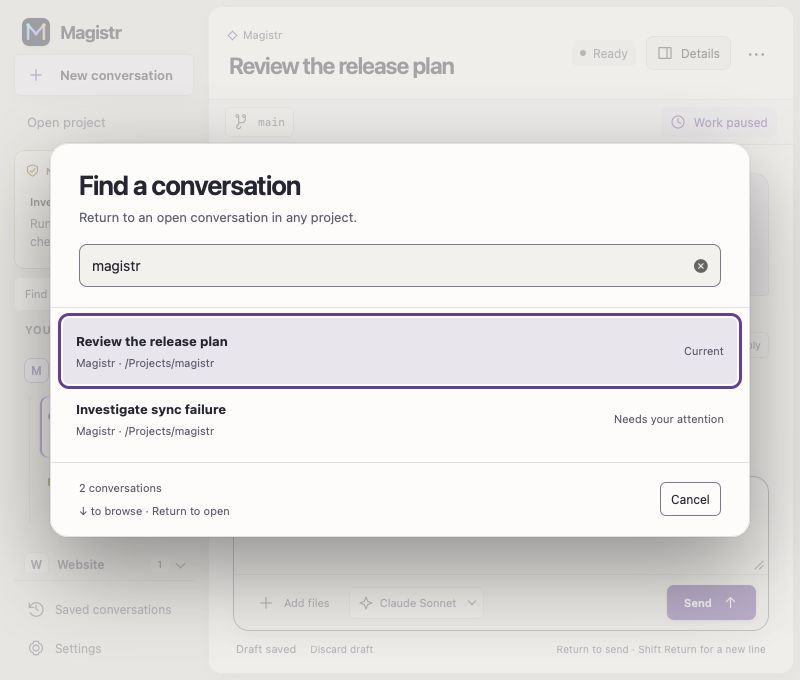
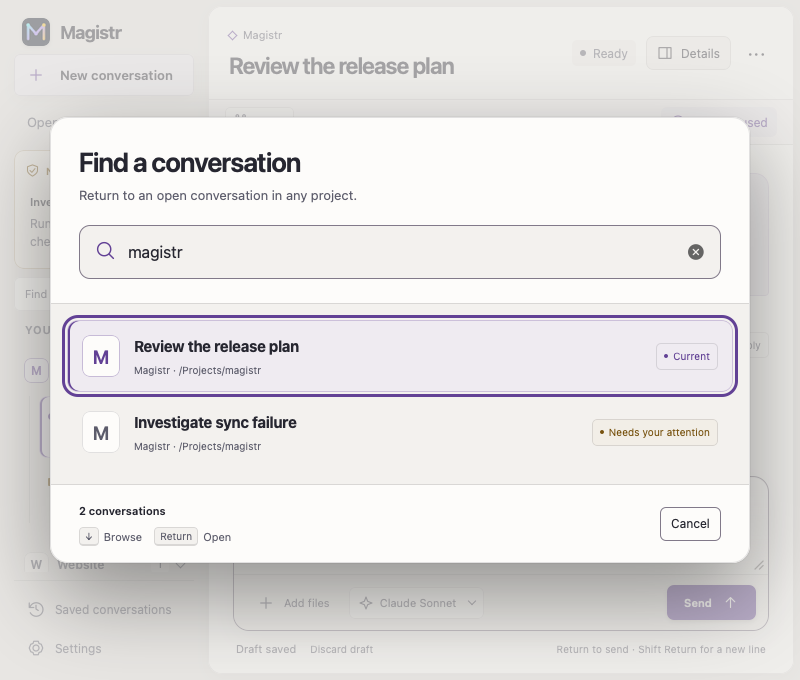
feat(desktop): redesign conversation search and result cards

Changed region(s): [[0.0625, 0.1544, 0.9375, 0.6794], [0.0625, 0.7103, 0.9375, 0.8338]]

diff --git a/crates/magistr-desktop/ui/style.css b/crates/magistr-desktop/ui/style.css
@@ -6,14 +6,14 @@
 kbd{font:inherit;font-size:11px;line-height:1.4;color:var(--muted);white-space:nowrap}#find-conversation kbd{font-size:10px}
 #switch-picker{width:700px;padding:0;max-height:calc(100dvh - 56px)}
 #switch-picker[open]{display:flex;flex-direction:column}
-.switch-heading{padding:24px 28px 16px}.switch-heading h2{margin:0 0 6px}.switch-heading p{margin:0;font-size:13px}
-.switch-search{padding:0 28px 20px}.switch-search input{width:100%;padding:10px 12px}
-#switch-results{overflow:auto;min-height:0;max-height:340px;padding:8px 12px;border-block:1px solid var(--separator)}
-#switch-results button{display:flex;align-items:center;justify-content:space-between;gap:16px;width:100%;border-color:transparent;background:transparent;padding:12px;margin:2px 0;font-size:13px}
-#switch-results button[aria-current=true],#switch-results button:hover{background:var(--raised)}
-#switch-results button>span:first-child{min-width:0}#switch-results strong,#switch-results small{display:block;overflow-wrap:anywhere}#switch-results small{color:var(--muted);font-size:11px;margin-top:4px}
-.switch-state{font-size:11px;color:var(--muted);flex-shrink:0}.switch-footer{display:flex;align-items:center;justify-content:space-between;gap:16px;padding:16px 28px;flex-shrink:0}
-.switch-footer p{font-size:11px;margin:0}#switch-hint{margin-top:4px}#switch-empty{padding:20px 28px;margin:0;font-size:13px}#switch-error{margin:0 28px 12px;padding:10px;font-size:13px;max-height:100px;overflow:auto}
+.switch-heading{padding:28px 28px 20px}.switch-heading h2{margin:0 0 6px}.switch-heading p{margin:0;font-size:13px}
+.switch-search{padding:0 28px 24px;position:relative}.switch-search>[data-icon]{position:absolute;left:44px;top:15px;width:21px;height:21px;color:var(--accent)}.switch-search input{width:100%;padding:14px 16px 14px 48px;min-height:52px;font-size:16px;border-radius:11px;background:var(--panel)}
+#switch-results{overflow:auto;min-height:0;max-height:360px;padding:12px 16px;border-block:1px solid var(--separator);background:var(--panel)}
+#switch-results button{display:grid;grid-template-columns:38px minmax(0,1fr) auto;align-items:center;gap:14px;width:100%;border-color:transparent;background:transparent;padding:14px;margin:4px 0;font-size:13px;border-radius:11px}
+#switch-results button:hover{background:var(--raised)}#switch-results button[aria-current=true]{background:var(--tint);border-color:color-mix(in srgb,var(--accent) 25%,transparent);box-shadow:inset 2px 0 var(--accent)}
+#switch-results .switch-body{min-width:0}#switch-results strong,#switch-results small{display:block;overflow-wrap:anywhere}#switch-results strong{font-size:15px;letter-spacing:-.02em;line-height:1.4}#switch-results small{color:var(--muted);font-size:10px;margin-top:6px;line-height:1.5}.switch-emblem{width:38px;height:42px;display:grid;place-items:center;background:var(--base);border:1px solid var(--separator);border-radius:8px;font-size:19px;font-weight:650;color:var(--muted)}[aria-current=true]>.switch-emblem{color:var(--accent);border-color:color-mix(in srgb,var(--accent) 35%,transparent)}
+.switch-state{display:flex;align-items:center;gap:5px;font-size:10px;color:var(--muted);padding:5px 7px;border:1px solid var(--separator);border-radius:5px;white-space:nowrap}.switch-state::before{content:"";width:4px;height:4px;border-radius:50%;background:currentColor}[aria-current=true]>.switch-state{color:var(--accent)}[data-attention=true]>.switch-state{color:var(--warning);background:color-mix(in srgb,var(--warning) 8%,var(--base))}.switch-footer{display:flex;align-items:center;justify-content:space-between;gap:16px;padding:16px 28px;flex-shrink:0}
+.switch-footer p{font-size:11px;margin:0}#switch-count{font-weight:600;color:var(--text)}#switch-hint{display:flex;gap:12px;margin-top:8px}#switch-hint span{display:flex;align-items:center;gap:5px}#switch-hint kbd{font:10px var(--font-ui);border:1px solid var(--separator);border-bottom-width:2px;border-radius:4px;padding:2px 5px;background:var(--panel)}#switch-empty{padding:36px 28px;margin:0;font-size:14px;text-align:center}@media(max-width:600px){#switch-results button{grid-template-columns:32px minmax(0,1fr);gap:10px}.switch-emblem{width:32px;height:36px}.switch-state{grid-column:2;justify-self:start}.switch-search,.switch-heading{padding-inline:20px}.switch-search>[data-icon]{left:36px}}#switch-error{margin:0 28px 12px;padding:10px;font-size:13px;max-height:100px;overflow:auto}
 #settings{max-height:calc(100dvh - 56px)}#settings[open]{display:flex;flex-direction:column}.settings-heading{flex-shrink:0}.settings-content{min-height:0;overflow:auto;padding:3px}
 .settings-shortcuts{border-top:1px solid var(--separator);padding-top:16px;margin-top:20px}.settings-shortcuts h3{font-size:13px;margin:0 0 12px}
 .settings-shortcuts dl{margin:0}.settings-shortcuts dl>div{display:flex;justify-content:space-between;gap:20px;padding:5px 0;font-size:12px}.settings-shortcuts dd{margin:0}

diff --git a/crates/magistr-desktop/ui/index.html b/crates/magistr-desktop/ui/index.html
@@ -91,10 +91,10 @@
 </div>
 <dialog id="switch-picker" aria-labelledby="switch-title">
   <header class="switch-heading"><h2 id="switch-title">Find a conversation</h2><p>Return to an open conversation in any project.</p></header>
-  <div class="switch-search"><label for="switch-search" class="sr-only">Find an open conversation</label><input id="switch-search" type="search" placeholder="Search conversations or projects…" aria-controls="switch-results" aria-describedby="switch-hint"></div>
+  <div class="switch-search"><span data-icon="search" aria-hidden="true"></span><label for="switch-search" class="sr-only">Find an open conversation</label><input id="switch-search" type="search" placeholder="Search conversations or projects…" aria-controls="switch-results" aria-describedby="switch-hint"></div>
   <p id="switch-error" class="error" role="alert" tabindex="-1" hidden></p>
   <nav id="switch-results" aria-label="Matching conversations"></nav><p id="switch-empty" hidden></p>
-  <footer class="switch-footer"><div><p id="switch-count" role="status"></p><p id="switch-hint">↓ to browse · Return to open</p></div><button id="switch-close">Cancel</button></footer>
+  <footer class="switch-footer"><div><p id="switch-count" role="status"></p><p id="switch-hint"><span><kbd>↓</kbd> Browse</span><span><kbd>Return</kbd> Open</span></p></div><button id="switch-close">Cancel</button></footer>
 </dialog>
 <dialog id="rename-picker" aria-labelledby="rename-title">
   <form id="name-form"><h2 id="rename-title">Rename conversation</h2><p>Give this conversation a name you’ll recognize later.</p>
